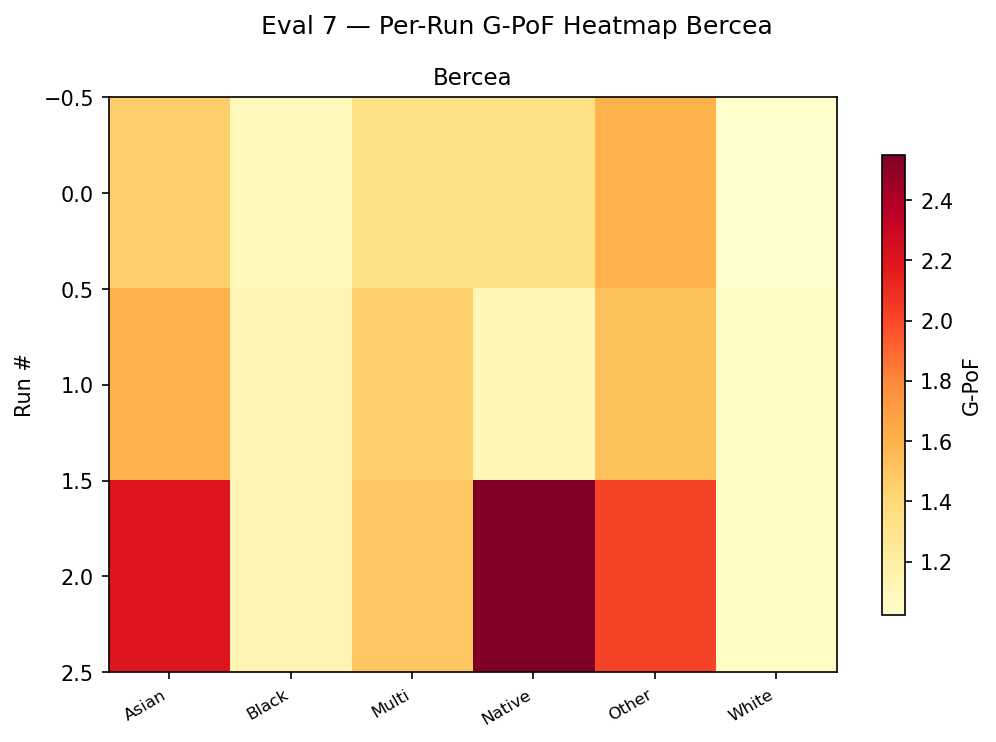
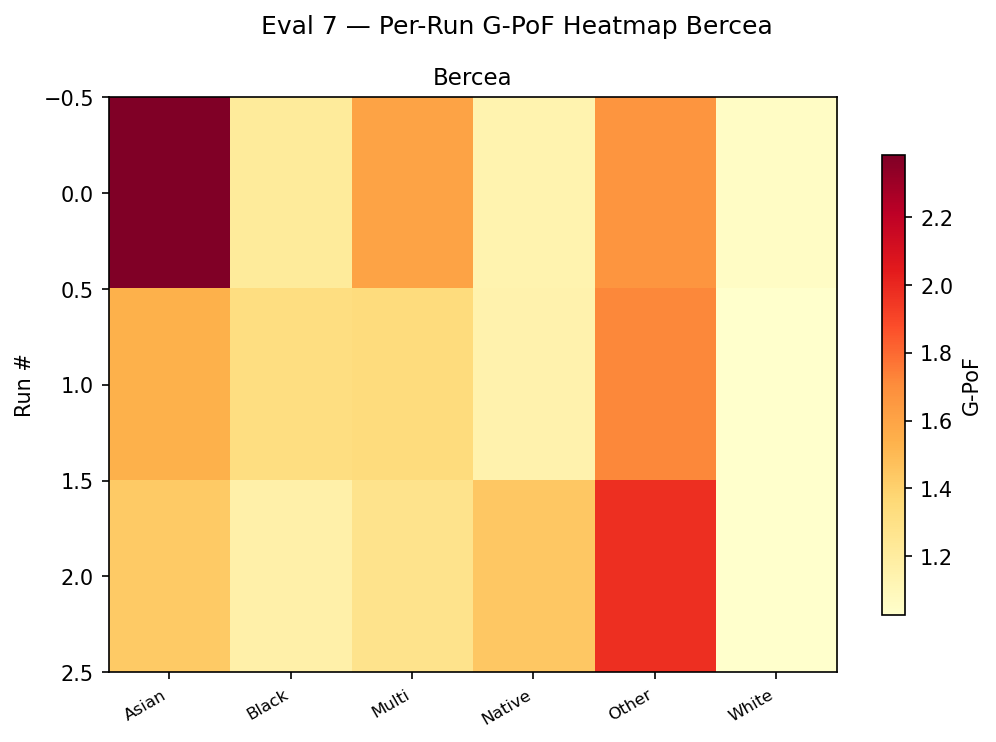
randomness

diff --git a/runner.py b/runner.py
@@ -10,12 +10,15 @@ from evaluate import ClusteringResult, make_result, compute_pof, compute_cluster
 from algorithms.main_bercea_fair_clustering import fair_clustering as bercea_fc
 from algorithms.main_bera_fair_clustering import fair_clustering as bera_fc
 from algorithms.main_boehm_fair_clustering import fair_clustering as boehm_fc
+from algorithms.main_backurs_fair_clustering import fair_clustering as backurs_fc
+
 
 class TrialOutput(NamedTuple):
     """Everything run_trials needs from one completed trial."""
     fair_result: ClusteringResult
     unfair_result: ClusteringResult
     timing: dict[str, float]
+
 
 
 def run_trials(max_rows, algorithm_fn: Callable[..., Any],
@@ -33,8 +36,11 @@ def run_trials(max_rows, algorithm_fn: Callable[..., Any],
     all_gpofs: list[dict] = []
     trial_outputs: list[TrialOutput] = []
 
-    for run_id in range(n_runs):
-        seed = np.random.SeedSequence().entropy % (2 ** 31)
+    master_ss = np.random.SeedSequence(12345)
+    child_seeds = master_ss.spawn(n_runs)
+
+    for run_id, child_ss in enumerate(child_seeds):
+        seed = int(child_ss.generate_state(1)[0] % (2 ** 31))
 
         df = csv_loader.load_csv_chunked(
             "../us_census_puma_data.csv",
@@ -61,12 +67,13 @@ def run_trials(max_rows, algorithm_fn: Callable[..., Any],
         pofs.append(pof)
         all_timings.append(trial.timing)
 
-        cluster_fc = compute_cluster_costs(trial.fair_result)
-        cluster_uc = compute_cluster_costs(trial.unfair_result)
-        cpof = compute_cluster_pof(trial.fair_result, trial.unfair_result)
-        all_cluster_fair_costs.append(cluster_fc)
-        all_cluster_unfair_costs.append(cluster_uc)
-        all_cpofs.append(cpof)
+        if trial.fair_result.algorithm.lower() in ("bera", "bercea"):
+            cluster_fc = compute_cluster_costs(trial.fair_result)
+            cluster_uc = compute_cluster_costs(trial.unfair_result)
+            cpof = compute_cluster_pof(trial.fair_result, trial.unfair_result)
+            all_cluster_fair_costs.append(cluster_fc)
+            all_cluster_unfair_costs.append(cluster_uc)
+            all_cpofs.append(cpof)
 
         group_fc = compute_group_costs(trial.fair_result)
         group_uc = compute_group_costs(trial.unfair_result)
@@ -403,6 +410,7 @@ if __name__ == "__main__":
     print("  RUNNING BERA ET AL. (Iterative Rounding)")
     print("=" * 60)
     bercea_summary = run_trials(
+        max_rows=ROW_SIZE,
         algorithm_fn=bercea_fc,
         result_builder=build_bercea_result,
         group_id_features=GROUP_ID_FEATURES,

diff --git a/evaluations/evaluation1-6-7.py b/evaluations/evaluation1-6-7.py
@@ -9,14 +9,6 @@ from results_encoder import save_summary
 from runner import run_trials, build_bera_result, build_bercea_result, build_boehm_result, build_backurs_result
 
 
-N_SIZE = 500
-FEATURE_COLS = ["Lat_Scaled", "Lon_Scaled"]
-GROUP_ID_FEATURES = ["RACE_6"]
-PROTECTED_COL = "GROUP_ID"
-K = 10
-ALPHA = 0.05
-N_RUNS = 3
-
 ALG_PALETTE = {
     "Bera": "#4C72B0",
     "Bercea": "#DD8452",
@@ -428,10 +420,18 @@ def print_eval7_table(summaries: dict[str, dict]) -> None:
 
 
 if __name__ == "__main__":
+    N_SIZE = 1000
+    FEATURE_COLS = ["Lat_Scaled", "Lon_Scaled"]
+    GROUP_ID_FEATURES = ["RACE_6"]
+    PROTECTED_COL = "GROUP_ID"
+    K = 10
+    ALPHA = 0.05
+    N_RUNS = 3
+
     summaries: dict[str, dict] = {}
 
     print(f"\n{'#' * 60}")
-    print(f"  Running Bera et al. [2]")
+    print(f"  Running Bera")
     print(f"{'#' * 60}")
     bera_summary = run_trials(
         max_rows=N_SIZE,
@@ -449,7 +449,7 @@ if __name__ == "__main__":
     save_summary(bera_summary, "eval167_bera_summary.json")
 
     print(f"\n{'#' * 60}")
-    print(f"  Running Bercea et al. [3]")
+    print(f"  Running Bercea")
     print(f"{'#' * 60}")
     bercea_summary = run_trials(
         max_rows=N_SIZE,
@@ -467,7 +467,7 @@ if __name__ == "__main__":
     save_summary(bercea_summary, "eval167_bercea_summary.json")
 
     print(f"\n{'#' * 60}")
-    print(f"  Running Böhm et al. [4]")
+    print(f"  Running Böhm")
     print(f"{'#' * 60}")
     boehm_summary = run_trials(
         max_rows=N_SIZE,
@@ -485,7 +485,7 @@ if __name__ == "__main__":
     save_summary(boehm_summary, "eval167_boehm_summary.json")
 
     print(f"\n{'#' * 60}")
-    print(f"  Running Backurs et al. [5]")
+    print(f"  Running Backurs")
     print(f"{'#' * 60}")
     backurs_summary = run_trials(
         max_rows=N_SIZE,

diff --git a/algorithms/main_boehm_fair_clustering.py b/algorithms/main_boehm_fair_clustering.py
@@ -147,15 +147,15 @@ def fair_clustering(
         feature_cols: list[str],
         protected_group_col: str,
         k: int,
-        kmedian_trials: int = 3,
-        kmedian_max_iter: int = 30,
-        random_seed: Optional[int] = 42
+        kmedian_trials,
+        kmedian_max_iter,
+        random_seed
 ) -> tuple[ndarray, ndarray, float, dict[Any, Any], ndarray, ndarray, float, int, Any, ndarray, list, DataFrame, Any]:
     timing = {}
     t_start = time.perf_counter()
 
     t0 = time.perf_counter()
-    df_balanced, size_pruned_to = balance_dataset_for_boehm(df, group_col=protected_group_col, random_seed=42)
+    df_balanced, size_pruned_to = balance_dataset_for_boehm(df, group_col=protected_group_col, random_seed=random_seed)
     weights = df_balanced['_boehm_weight'].to_numpy(dtype=np.float64)
     timing["Balance Dataset"] = time.perf_counter() - t0
 
@@ -183,8 +183,9 @@ def fair_clustering(
                                                                  k_centers=k,
                                                                  n_trials=kmedian_trials,
                                                                  weights=weights,
-                                                                 max_iter=kmedian_max_iter)
-    # Majority-vote each original row's label across its replicated copies
+                                                                 max_iter=kmedian_max_iter,
+                                                                 random_seed=random_seed)
+    # majority-vote each original row's label across its replicated copies
     labels_series = pd.Series(fair_labels, index=df_balanced['_orig_idx'].to_numpy())
     fair_labels_orig = (labels_series
                         .groupby(level=0)

diff --git a/algorithms/main_backurs_fair_clustering.py b/algorithms/main_backurs_fair_clustering.py
@@ -459,6 +459,14 @@ def fairlet_decomposition(root: HSTNode, colours: np.ndarray,
 
     return all_fairlets
 
+def get_fairlet_medoid(fairlet, points):
+    if len(fairlet) == 1:
+        return fairlet[0]
+    pts = points[fairlet]
+    # pairwise L1 cost from each member to all others
+    costs = np.abs(pts[:, None] - pts[None, :]).sum(axis=2).sum(axis=1)
+    return fairlet[int(np.argmin(costs))]
+
 
 def cluster_fairlets(points: np.ndarray, fairlets: list[list[int]],
                      k: int, kmedian_trials: int = 5,
@@ -472,7 +480,7 @@ def cluster_fairlets(points: np.ndarray, fairlets: list[list[int]],
     """
     n_points = len(points)
 
-    representative_ids = np.array([f[0] for f in fairlets])
+    representative_ids = np.array([get_fairlet_medoid(f, points) for f in fairlets])
     representative_coords = points[representative_ids]
     fairlet_sizes = np.array([float(len(f)) for f in fairlets])
 
